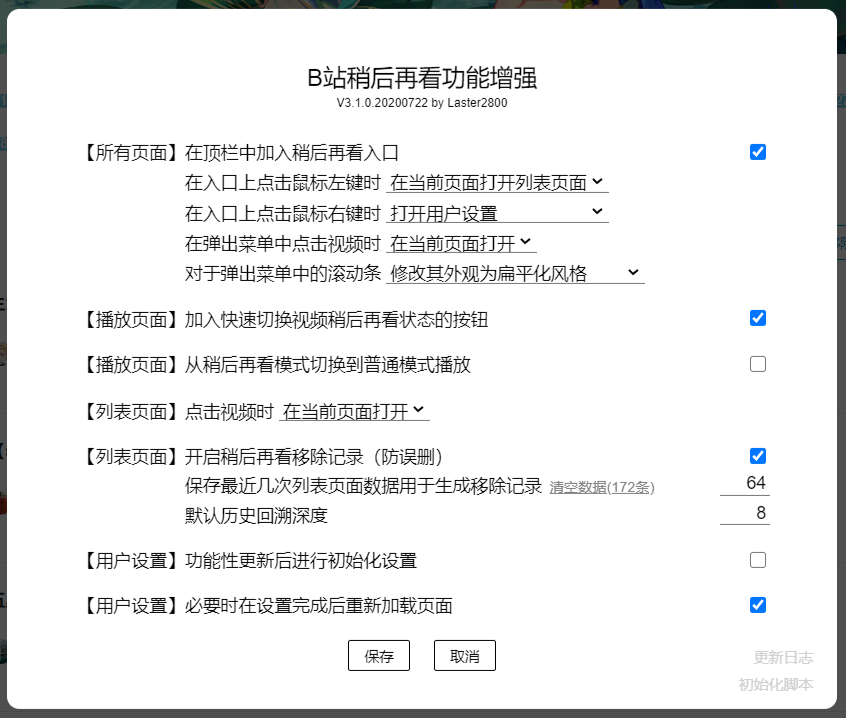
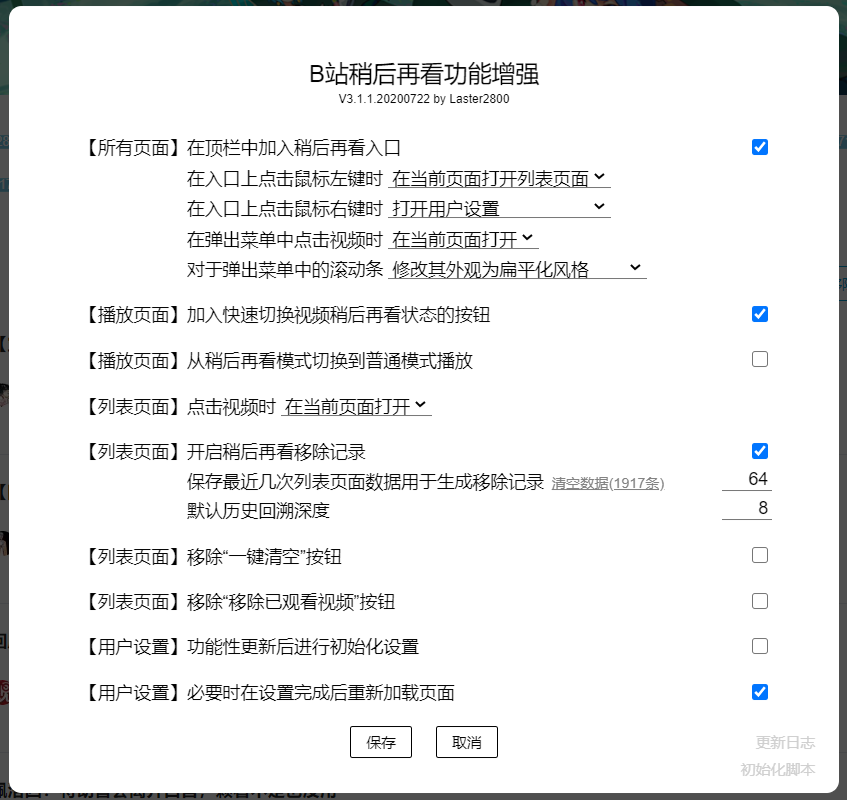
B站稍后再看功能增强
1. 增加针对列表页面的【移除“一键清空”按钮】和【移除“移除已观看视频”按钮】功能
2. 修复移除历史对话框文字模糊的问题（万恶的 transform 啊！）

diff --git a/BilibiliWatchlaterPlus/BilibiliWatchlaterPlus.js b/BilibiliWatchlaterPlus/BilibiliWatchlaterPlus.js
@@ -1,7 +1,7 @@
 // ==UserScript==
 // @id              BilibiliWatchlaterPlus@Laster2800
 // @name            B站稍后再看功能增强
-// @version         3.1.0.20200722
+// @version         3.1.1.20200722
 // @namespace       laster2800
 // @author          Laster2800
 // @description     B站稍后再看功能增强，目前功能包括UI增强、稍后再看模式自动切换至普通模式播放（重定向）、稍后再看移除记录等，支持功能设置
@@ -54,6 +54,8 @@
    * @property {boolean} removeHistory 稍后再看移除记录
    * @property {number} removeHistorySaves 列表页数数据保存次数
    * @property {number} removeHistorySearchTimes 历史回溯深度
+   * @property {boolean} removeButton_removeAll 移除“一键清空”按钮
+   * @property {boolean} removeButton_removeWatched 移除“移除已观看视频”按钮
    * @property {boolean} resetAfterFnUpdate 功能性更新后初始化
    * @property {boolean} reloadAfterSetting 设置生效后刷新页面
    */
@@ -203,7 +205,7 @@
     if (urlMatch(gm.regex.page_watchlaterList)) {
       // 列表页面
       fnOpenListVideo()
-      createWatchlaterListUI()
+      adjustWatchlaterListUI()
       if (gm.config.removeHistory) {
         saveWatchlaterListData()
       }
@@ -275,6 +277,8 @@
         removeHistory: true,
         removeHistorySaves: gm.const.defaultRhs,
         removeHistorySearchTimes: 8,
+        removeButton_removeAll: false,
+        removeButton_removeWatched: false,
         resetAfterFnUpdate: false,
         reloadAfterSetting: true,
       }
@@ -1089,9 +1093,9 @@
     }
 
     /**
-     * 生成列表页面的 UI
+     * 调整列表页面的 UI
      */
-    function createWatchlaterListUI() {
+    function adjustWatchlaterListUI() {
       var r_con = document.querySelector('.watch-later-list.bili-wrapper header .r-con')
       if (gm.config.removeHistory) {
         // 在列表页面加入“移除记录”
@@ -1105,6 +1109,14 @@
       plusButton.innerText = '增强设置'
       plusButton.className = 's-btn'
       plusButton.onclick = () => openUserSetting() // 要避免 MouseEvent 的传递
+      // 移除“一键清空”按钮
+      if (gm.config.removeButton_removeAll) {
+        r_con.children[1].style.display = 'none'
+      }
+      // 移除“移除已观看视频”按钮
+      if (gm.config.removeButton_removeWatched) {
+        r_con.children[2].style.display = 'none'
+      }
     }
 
     /**
@@ -1129,6 +1141,8 @@
           removeHistory: { attr: 'checked', manual: true },
           removeHistorySaves: { attr: 'value', manual: true, needNotReload: true },
           removeHistorySearchTimes: { attr: 'value', manual: true, needNotReload: true },
+          removeButton_removeAll: { attr: 'checked' },
+          removeButton_removeWatched: { attr: 'checked' },
           resetAfterFnUpdate: { attr: 'checked', needNotReload: true },
           reloadAfterSetting: { attr: 'checked', needNotReload: true },
         }
@@ -1193,7 +1207,7 @@
         </label>
         <div class="gm-item">
             <label title="保留最近几次打开【${gm.url.page_watchlaterList}】页面时稍后再看列表的记录，以查找出这段时间内将哪些视频移除出稍后再看，用于防止误删操作。关闭该选项后，会将内部历史数据清除！">
-                <span>【列表页面】开启稍后再看移除记录（防误删）</span>
+                <span>【列表页面】开启稍后再看移除记录</span>
                 <input id="gm-removeHistory" type="checkbox">
                 <span id="gm-rhWarning" class="gm-warning" title="">⚠</span>
             </label>
@@ -1206,6 +1220,10 @@
             <div class="gm-subitem" title="搜寻时在最近多少次列表页面数据中查找，设置较小的值能较好地定位最近移除的视频。设置较大的值几乎不会对性能造成影响，但不能大于最近列表页面数据保存次数。">
                 <span>默认历史回溯深度</span><input id="gm-removeHistorySearchTimes" type="text"></div>
         </div>
+        <label class="gm-item" title="这个按钮太危险了，看着就让人不舒服……">
+            <span>【列表页面】移除“一键清空”按钮</span><input id="gm-removeButton_removeAll" type="checkbox"></label>
+        <label class="gm-item" title="这个按钮太危险了，看着就让人不舒服……">
+            <span>【列表页面】移除“移除已观看视频”按钮</span><input id="gm-removeButton_removeWatched" type="checkbox"></label>
         <label class="gm-item" title="功能性更新后，是否强制进行初始化设置？特别地，该选项的设置在初始化设置时将被保留，但初始化脚本时依然会被重置。">
             <span>【用户设置】功能性更新后进行初始化设置</span><input id="gm-resetAfterFnUpdate" type="checkbox"></label>
         <label class="gm-item" title="勾选后，如果更改的配置需要重新加载才能生效，那么会在设置完成后重新加载页面。">
@@ -2123,7 +2141,7 @@
     border-radius: 10px;
     z-index: 65535;
     min-width: 53em;
-    padding: 1em 1.4em;
+    padding: 0.9em 1.4em;
 }
 #${gm.id} .gm-setting #gm-maintitle {
     cursor: pointer;
@@ -2235,6 +2253,7 @@
     z-index: 65535;
     height: 75%;
     width: 60%;
+    padding: 0.1em;
 }
 #${gm.id} .gm-history .gm-comment {
     margin: 0 2em;
